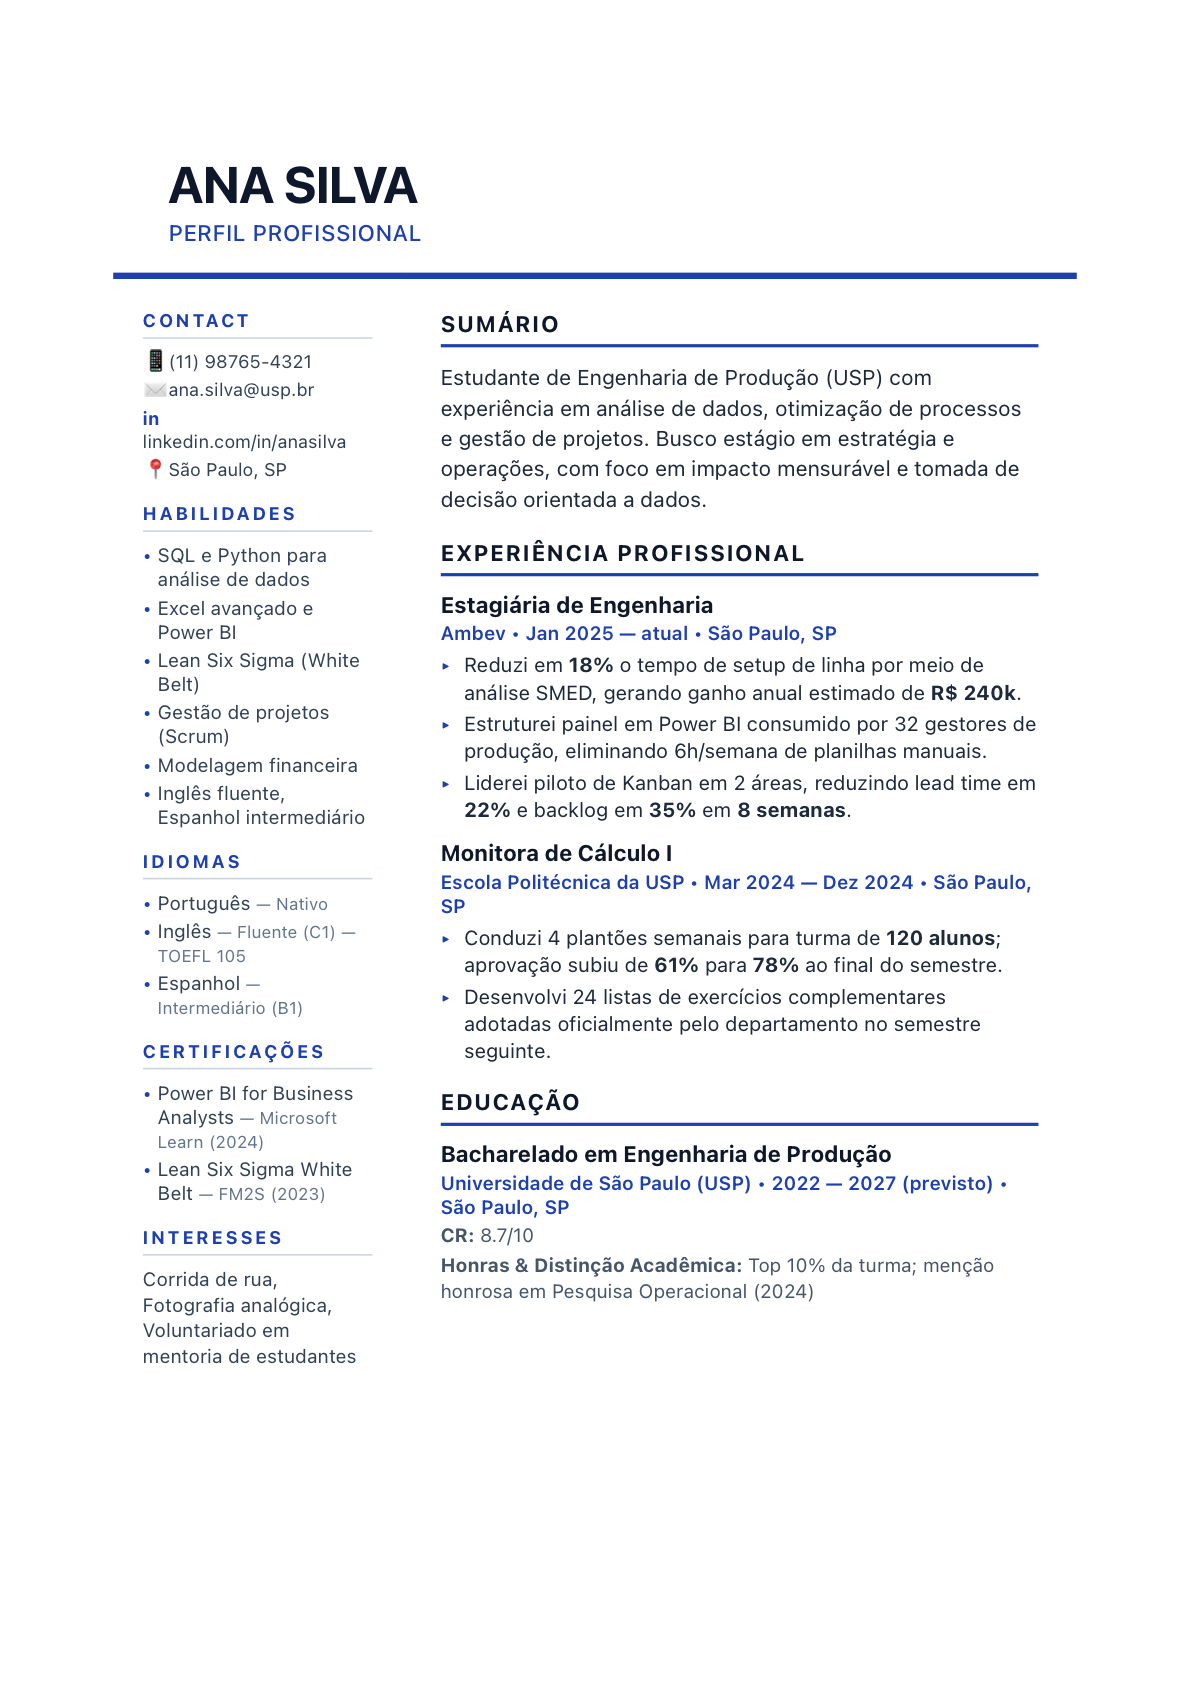
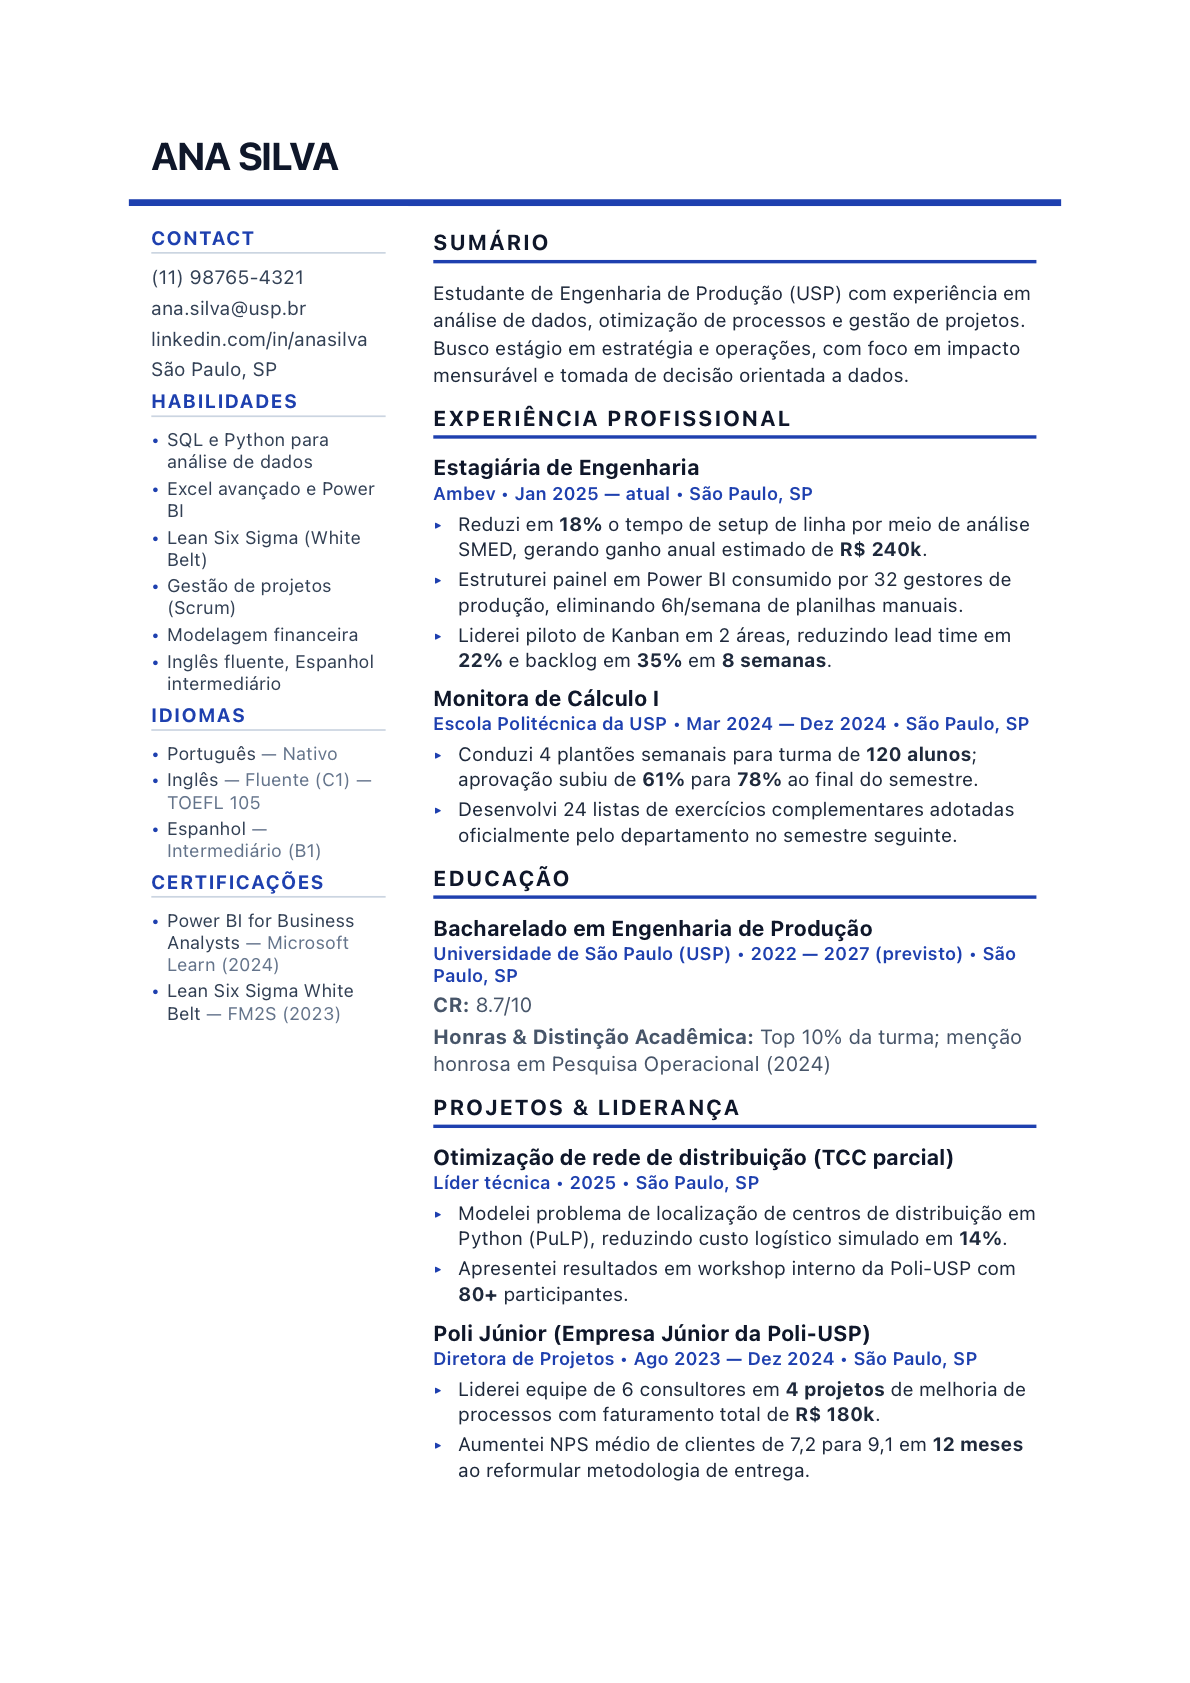
fix(curriculo): sincronizar thumbnails com os templates

Changed region(s): [[0.0933, 0.0618, 0.9017, 0.896]]

diff --git a/lib/features/resume/widgets/template_thumbnail_generator_screen.dart b/lib/features/resume/widgets/template_thumbnail_generator_screen.dart
@@ -5,10 +5,10 @@
 //
 // Como usar:
 //   1. Em debug mode, abre Settings → "[DEV] Gerar thumbnails dos templates"
-//   2. Toca em "Gerar 4 PNGs"
-//   3. App gera os 4 PNGs em <Documents>/template_thumbnails/
+//   2. Toca em "Gerar 5 PNGs"
+//   3. App gera os 5 PNGs em <Documents>/template_thumbnails/
 //   4. A tela mostra o caminho completo da pasta — copia ela e cola no Finder
-//   5. Move os 4 PNGs pra `assets/images/templates/` no projeto
+//   5. Move os 5 PNGs pra `assets/images/templates/` no projeto
 //   6. Roda `flutter pub get` e commita
 //
 // Quando rodar de novo: sempre que o HTML de um dos templates em
@@ -184,7 +184,7 @@ class _TemplateThumbnailGeneratorScreenState
             crossAxisAlignment: CrossAxisAlignment.stretch,
             children: [
               Text(
-                'Regenera os PNGs de preview dos 4 templates de currículo. '
+                'Regenera os PNGs de preview dos 5 templates de currículo. '
                 'Use sempre que o HTML de algum template mudar.',
                 style: TextStyle(fontFamily: 'Inter', fontSize: 14, color: AppColors.textSecondary, height: 1.4),
               ),
@@ -198,7 +198,7 @@ class _TemplateThumbnailGeneratorScreenState
                         child: CircularProgressIndicator(strokeWidth: 2, color: Colors.white),
                       )
                     : const Icon(Icons.image_outlined),
-                label: Text(_running ? 'Gerando...' : 'Gerar 4 PNGs'),
+                label: Text(_running ? 'Gerando...' : 'Gerar 5 PNGs'),
                 style: ElevatedButton.styleFrom(
                   backgroundColor: AppColors.primary,
                   foregroundColor: Colors.white,

diff --git a/assets/images/templates/README.md b/assets/images/templates/README.md
@@ -6,10 +6,10 @@ Esta pasta contém os PNGs de preview mostrados no `ResumeTemplateSelector`.
 
 1. Rode o app em debug mode (`flutter run`)
 2. Abra **Configurações** → **[DEV] Gerar thumbnails dos templates**
-3. Toque em "Gerar 4 PNGs"
+3. Toque em "Gerar 5 PNGs"
 4. Copie o caminho mostrado na tela
 5. No Finder: Cmd+Shift+G → cole o caminho
-6. Mova os 4 PNGs daqui pra essa pasta (`assets/images/templates/`)
+6. Mova os 5 PNGs daqui pra essa pasta (`assets/images/templates/`)
 7. Commite os assets
 
 ## Arquivos esperados
@@ -18,5 +18,6 @@ Esta pasta contém os PNGs de preview mostrados no `ResumeTemplateSelector`.
 - `jakes_resume.png`
 - `forte_foundation.png`
 - `one_page_compact.png`
+- `cobalt_modern.png`
 
 Quando regerar: sempre que o HTML de algum template em `lib/features/resume/pdf_service.dart` mudar visualmente.
